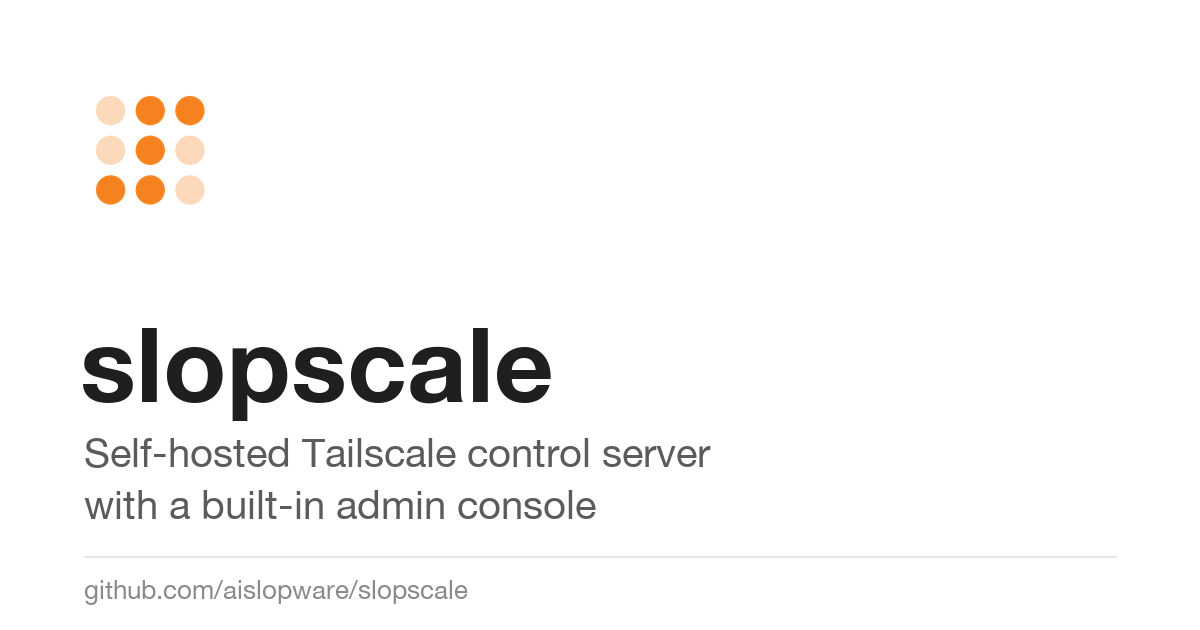
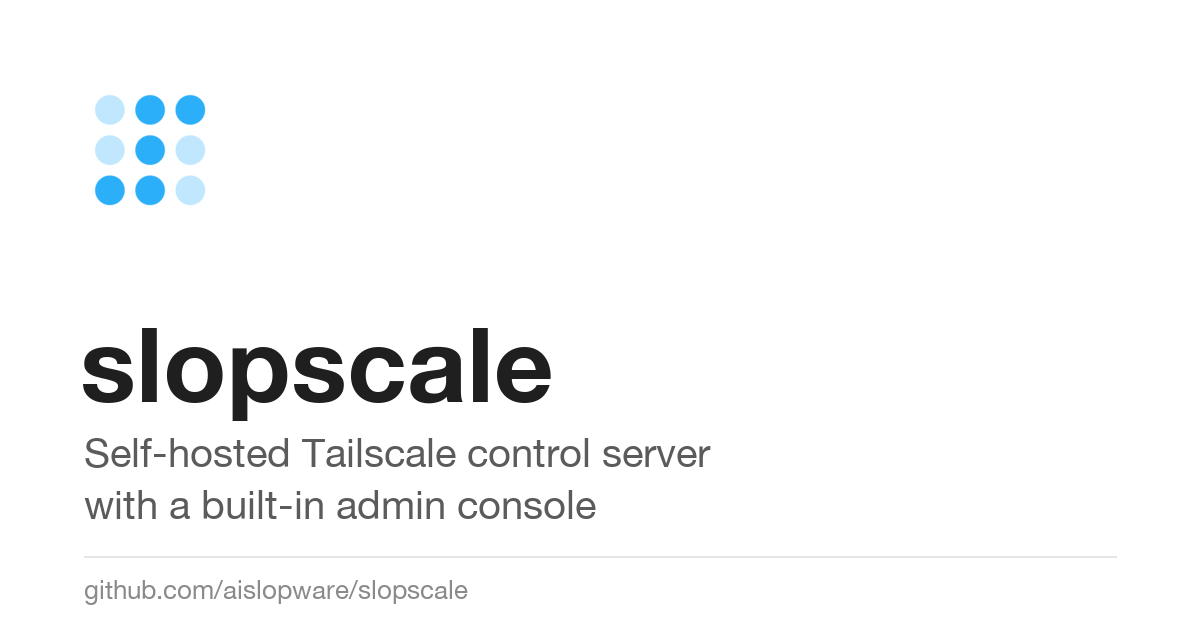
feat: the mark is sky blue
The nine dots are drawn in #2caff9 instead of orange in the console,
on the server's pages, in the favicon, on the social card and on the
docs site, whose accent follows. Every aislopware project carries one
hue of its own at the same OKLCH lightness so the family tells apart
in a repo list; orange is the organisation's, and #f6821f was
Cloudflare's and NetBird's hex.

Changed region(s): [[0.0617, 0.1508, 0.185, 0.3317]]

diff --git a/web/src/components/layout/mark.tsx b/web/src/components/layout/mark.tsx
@@ -6,13 +6,13 @@ const inset = 20;
 const pitch = 30;
 const radius = 11;
 const unlitOpacity = 0.3;
-/** The brand orange, the same in both themes: a logo keeps its colour, it does not follow the text. */
-const orange = "#f6821f";
+/** The brand blue, the same in both themes: a logo keeps its colour, it does not follow the text. */
+const blue = "#2caff9";
 
-/** The slopscale mark: orange dots, the unlit ones faded, on whatever surface it sits. */
+/** The slopscale mark: blue dots, the unlit ones faded, on whatever surface it sits. */
 export function Mark({ className }: { readonly className?: string }): ReactElement {
   return (
-    <svg viewBox="0 0 100 100" aria-hidden className={className} fill={orange}>
+    <svg viewBox="0 0 100 100" aria-hidden className={className} fill={blue}>
       {rows.flatMap((row, rowIndex) =>
         Array.from(row, (cell, columnIndex) => {
           const cx = inset + columnIndex * pitch;

diff --git a/docs/blume.config.ts b/docs/blume.config.ts
@@ -8,9 +8,9 @@ export default defineConfig({
   content: { root: "content" },
   github: { owner: "aislopware", repo: "slopscale", dir: "docs" },
   deployment: { site: "https://aislopware.github.io", base: "/slopscale" },
-  theme: { accent: "orange", radius: "md", mode: "system" },
+  theme: { accent: "sky", radius: "md", mode: "system" },
   seo: {
-    og: { logo: "/mark.svg", palette: { accent: "#f6821f" } },
+    og: { logo: "/mark.svg", palette: { accent: "#2caff9" } },
     software: { license: "BSD-3-Clause", operatingSystem: "Linux", price: 0 },
   },
   navigation: { sidebar: { display: "group" } },

diff --git a/CHANGELOG.md b/CHANGELOG.md
@@ -1,5 +1,11 @@
 # CHANGELOG
 
+## 0.40.0 (unreleased)
+
+### Changes
+
+- The mark is sky blue: the nine dots in the console, on the server's pages, in the favicon, on the social card and on the docs site are drawn in `#2caff9` instead of orange, and the docs site's accent follows. Every aislopware project carries one hue of its own at the same lightness so the family tells apart in a repo list, and orange is the organisation's
+
 ## 0.39.0 (2026-09-11)
 
 ### Changes
